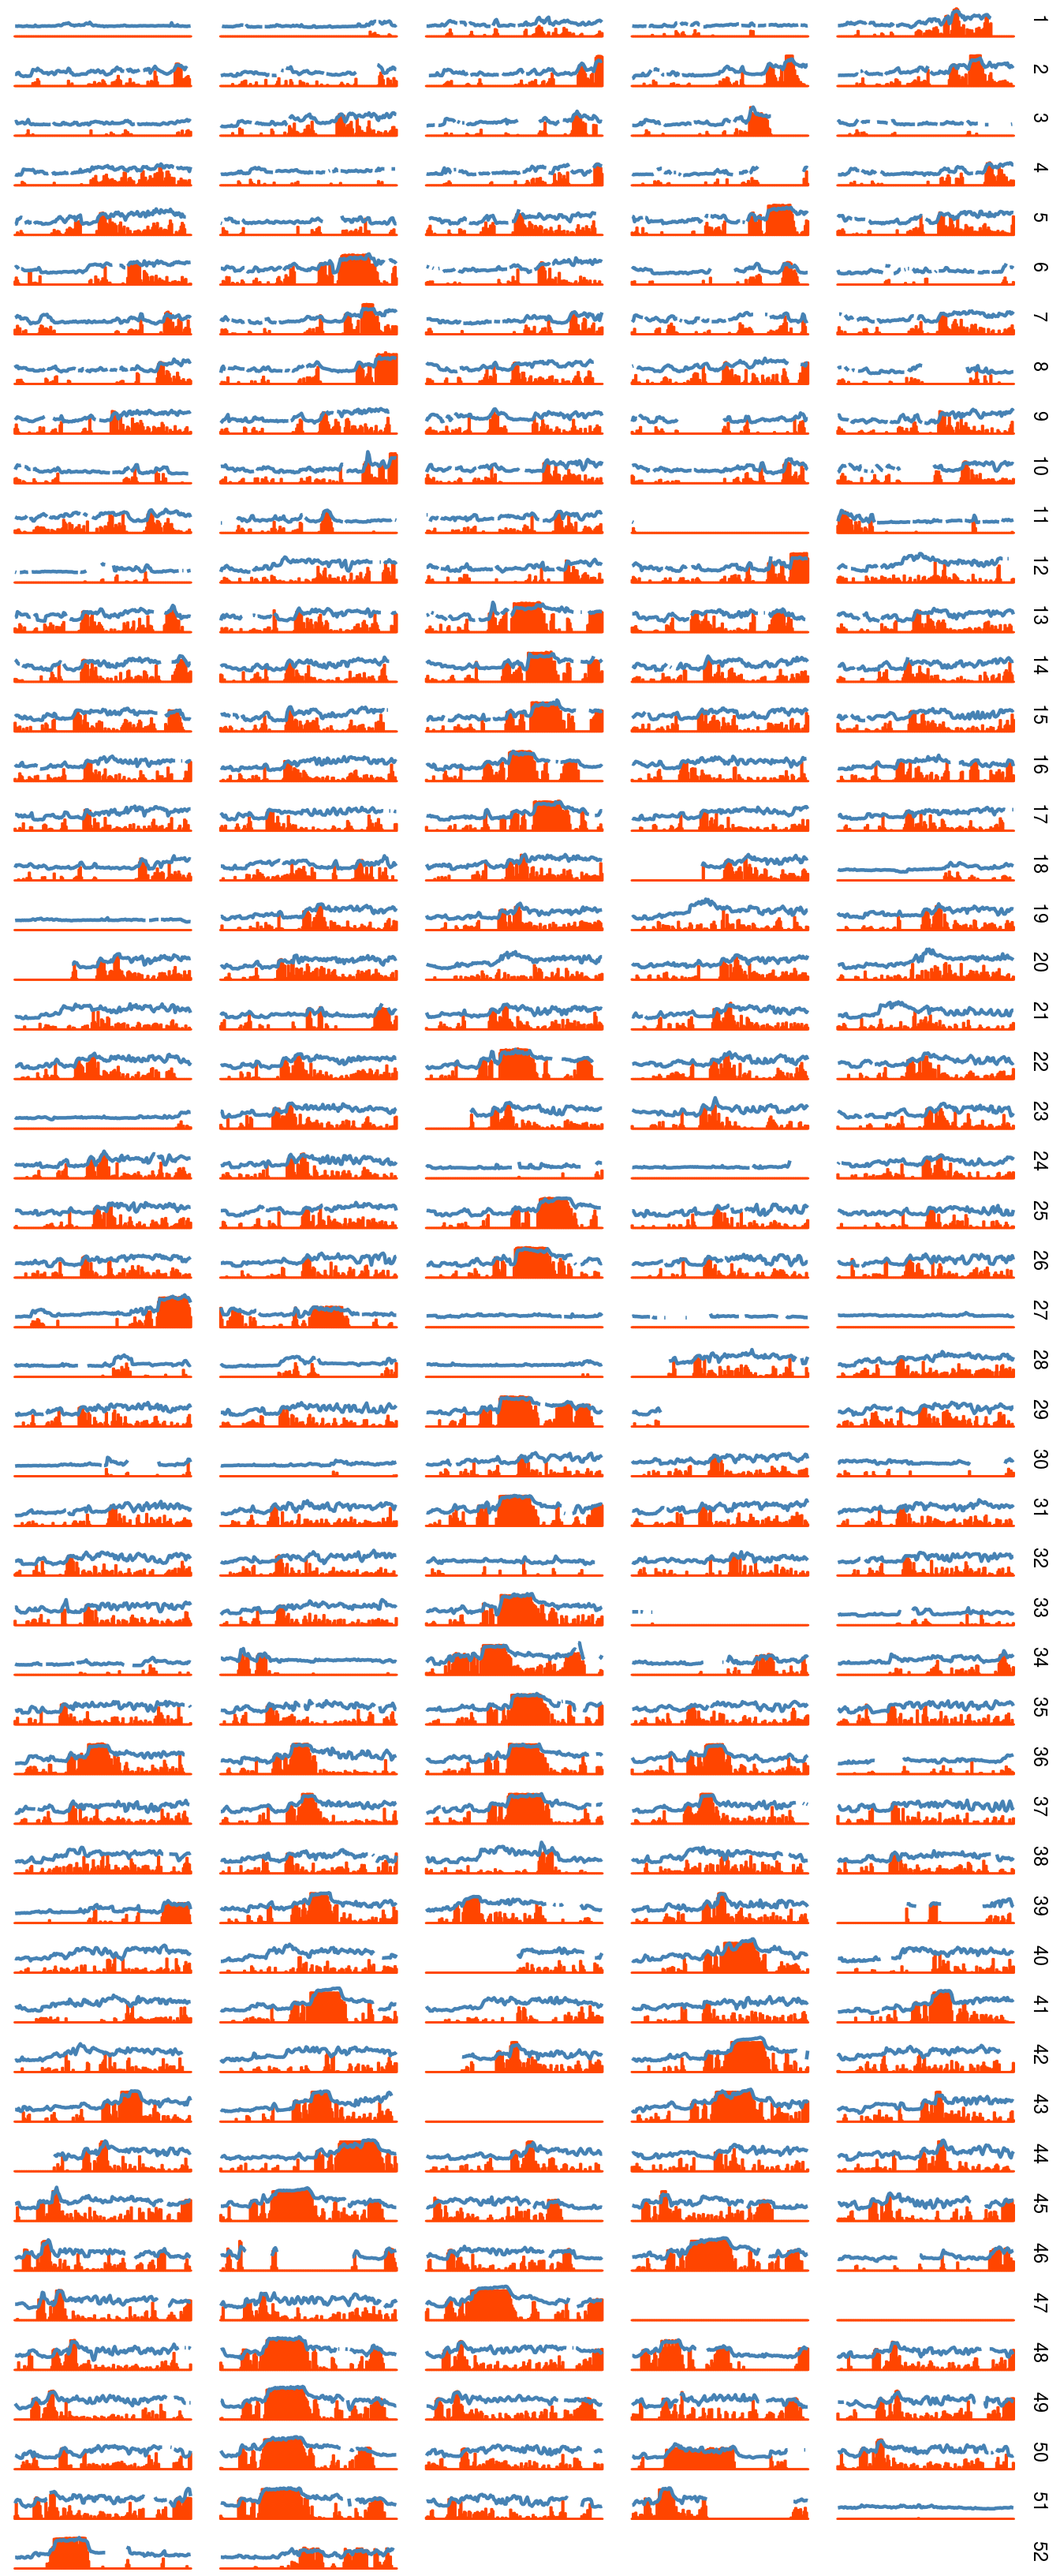
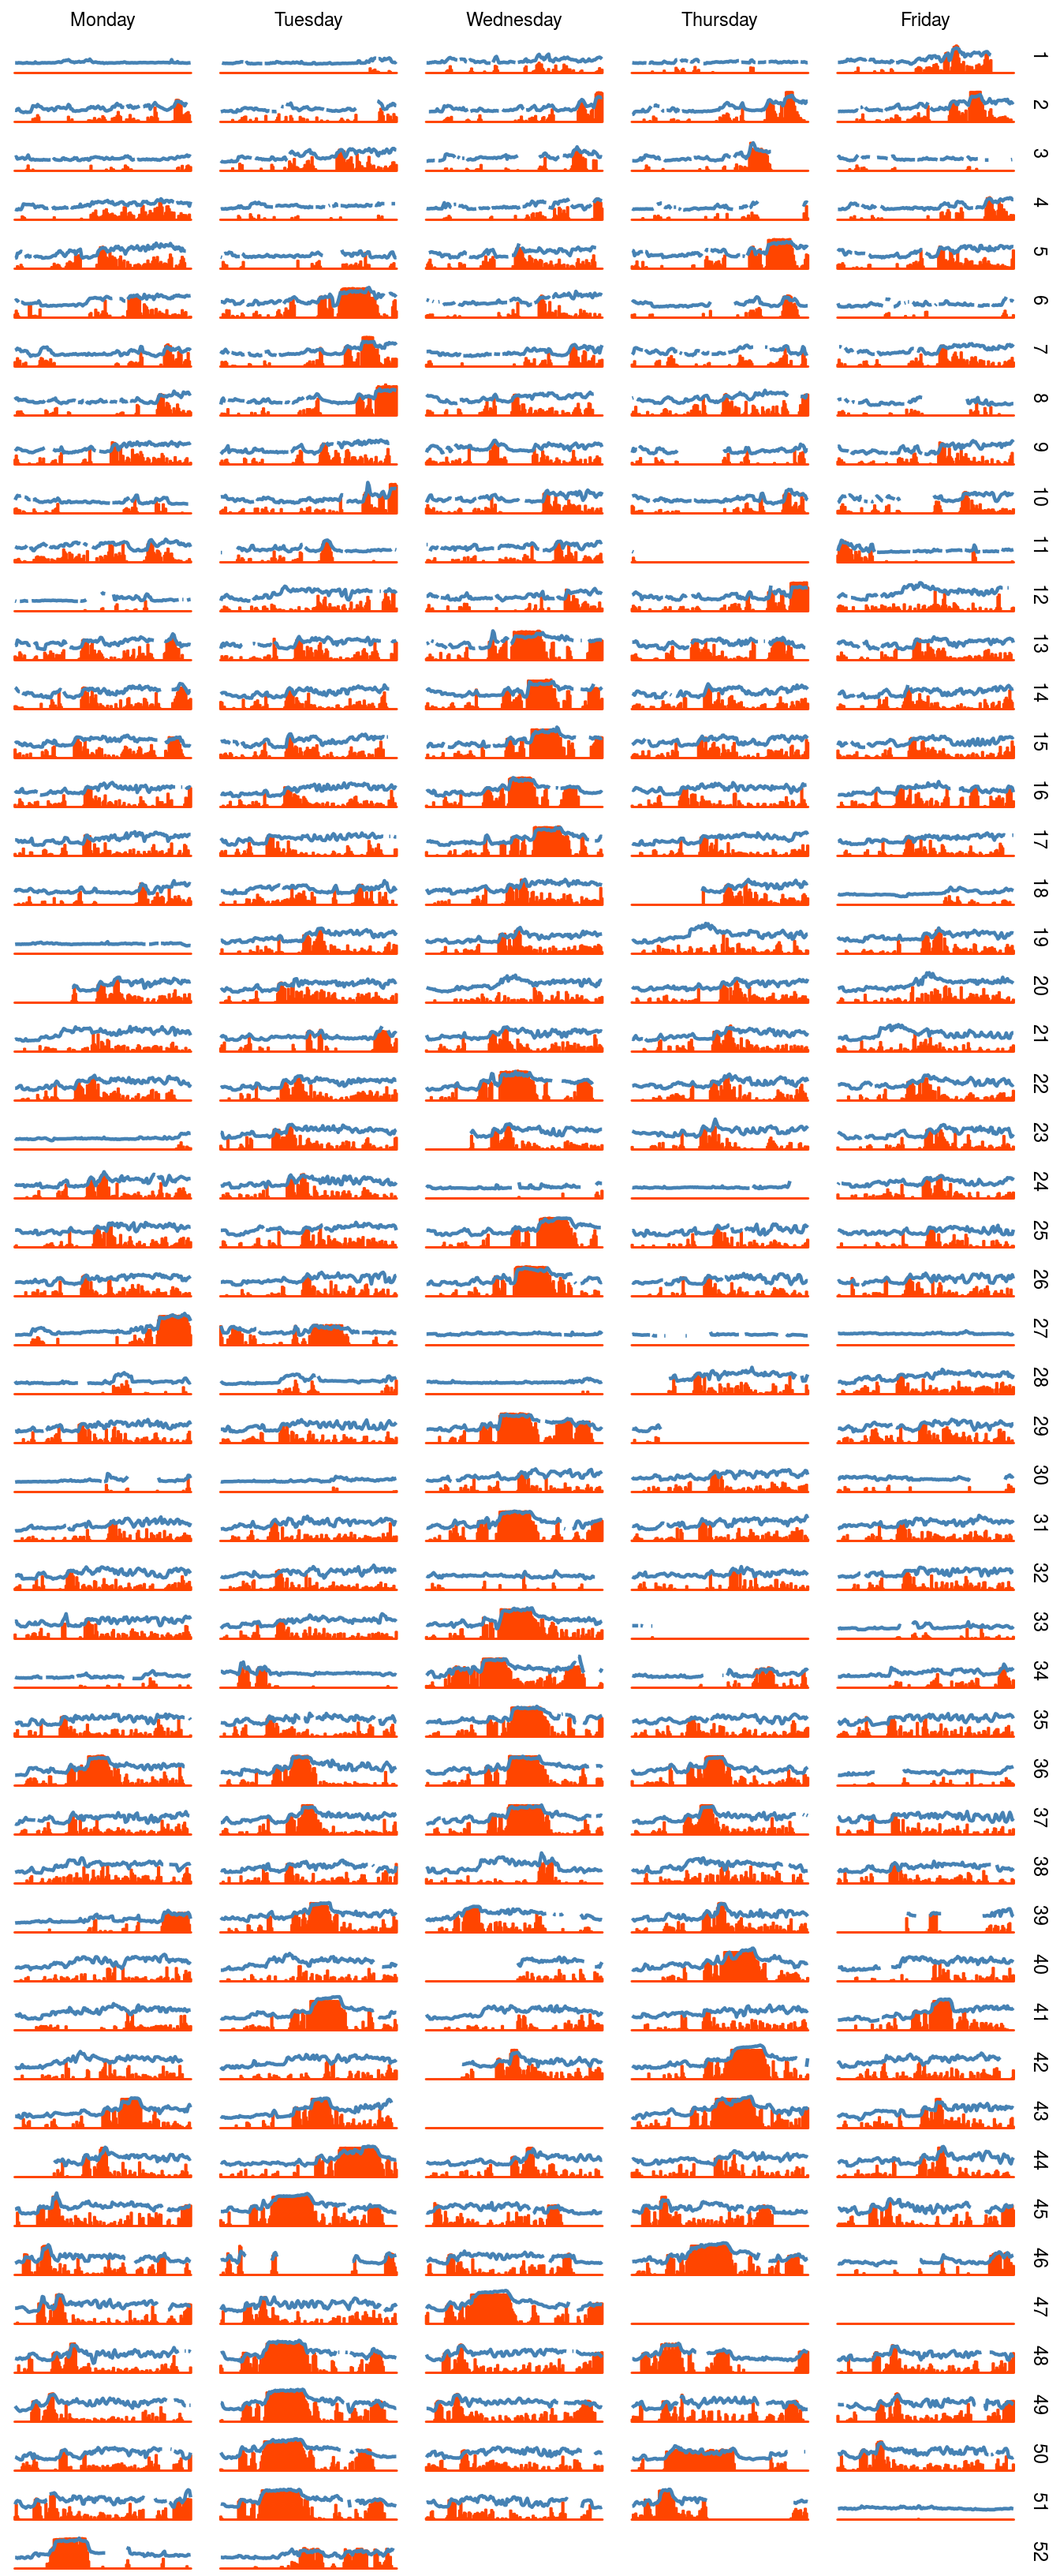
fixed some errant text and daded more meaningful labels to some plots

diff --git a/docs/2017/12/27/a-year-as-told-by-fitbit/index.html b/docs/2017/12/27/a-year-as-told-by-fitbit/index.html
@@ -215,7 +215,8 @@ fitbit_data %&gt;%
     minimum = min(value),
     mean = mean(value),
     median = median(value),
-    maximum = max(value)
+    maximum = max(value),
+    max_time = max(time)
   ) %&gt;% 
   knitr::kable(digits = 3)</code></pre>
 <table>
@@ -227,6 +228,7 @@ fitbit_data %&gt;%
 <th align="right">mean</th>
 <th align="right">median</th>
 <th align="right">maximum</th>
+<th align="right">max_time</th>
 </tr>
 </thead>
 <tbody>
@@ -237,6 +239,7 @@ fitbit_data %&gt;%
 <td align="right">73.300</td>
 <td align="right">69</td>
 <td align="right">192</td>
+<td align="right">86340</td>
 </tr>
 <tr class="even">
 <td align="left">steps</td>
@@ -245,10 +248,11 @@ fitbit_data %&gt;%
 <td align="right">6.287</td>
 <td align="right">0</td>
 <td align="right">222</td>
+<td align="right">86340</td>
 </tr>
 </tbody>
 </table>
-<p>So from this simple summary we can see that our time column does appear to be what it should, starting at 0 and ending at <span class="math inline">\(60*60*(24 - 1) = 86340\)</span>, or seemingly every minute of a given day. The earliest date we have is November first and the latest is December 26th. Mean heart rate is 73 and mean steps per minute is 6. Median heart rate is 69 bpm and median steps are zero, or more than half the time I’m not moving at all.</p>
+<p>So from this simple summary we can see that our time column does appear to be what it should, starting at 0 and ending at <span class="math inline">\(60*60*(24 - 1) = 86340\)</span>, or seemingly every minute of a given day. Mean heart rate is 73 and mean steps per minute is 6. Median heart rate is 69 bpm and median steps are zero, or more than half the time I’m not moving at all.</p>
 <p>Let’s take a quick look at the distributions of the contiguous variables to get a better picture than a simple mean and median can show.</p>
 <pre class="r"><code>annotations &lt;- data_frame(
   x = c(115, 165),
@@ -312,15 +316,14 @@ is_weekday &lt;- function(day_of_week) day_of_week %in% 2:6
 fitbit_data %&gt;% 
   filter(between_six_nine(time) &amp; is_weekday(day_of_week)) %&gt;% 
   spread(type, value) %&gt;% 
+  mutate(day_of_week = factor(day_of_week, 
+    labels = c(&#39;Monday&#39;, &#39;Tuesday&#39;, &#39;Wednesday&#39;, &#39;Thursday&#39;, &#39;Friday&#39;),
+    levels = 2:6)) %&gt;% 
   ggplot(aes(x = time)) +
   geom_bar(aes(y = steps), color = &#39;orangered&#39;, alpha = 0.3, stat = &#39;identity&#39;) + 
   geom_line(aes(y = `heart rate`), color = &#39;steelblue&#39;, size = 0.8) + 
   facet_grid(week_of_year ~ day_of_week) +
-  theme_void() +
-  theme(
-    strip.text.x = element_blank(),
-    strip.background = element_blank()
-  ) </code></pre>
+  theme_void() </code></pre>
 <p><img src="../../../../post/2017-12-27-a-year-in-fitbit_files/figure-html/unnamed-chunk-5-1.png" width="672" /></p>
 <p>You can see when I switched my run days (seen as the large red blocks of steps) from Wednesday to Tuesday and Thursday. In addition, if you look closely you can see the distinct pattern of my steps to the gym from my car.</p>
 <p>Another type of workout my girlfriend and I like to do is hikes on the weekends. We started doing this much more frequently as the year went on. Again let’s subset our data to see if we can observe this.</p>
@@ -329,15 +332,15 @@ fitbit_data %&gt;%
 fitbit_data %&gt;% 
   filter(between_seven_two(time) &amp; !(is_weekday(day_of_week))) %&gt;% 
   spread(type, value) %&gt;% 
+  mutate(
+  day_of_week = factor(day_of_week, 
+    labels = c(&#39;Saturday&#39;, &#39;Sunday&#39;),
+    levels = c(7,1))) %&gt;% 
   ggplot(aes(x = time)) +
   geom_bar(aes(y = steps), color = &#39;orangered&#39;, alpha = 0.3, stat = &#39;identity&#39;) + 
   geom_line(aes(y = `heart rate`), color = &#39;steelblue&#39;, size = 0.8) + 
   facet_grid(week_of_year ~ day_of_week) +
-  theme_void() +
-  theme(
-    strip.text.x = element_blank(),
-    strip.background = element_blank()
-  ) </code></pre>
+  theme_void()</code></pre>
 <p><img src="../../../../post/2017-12-27-a-year-in-fitbit_files/figure-html/unnamed-chunk-6-1.png" width="672" /></p>
 <p>You can see that in the later half of the year we started doing hikes much more frequently. <label for="tufte-mn-" class="margin-toggle">⊕</label><input type="checkbox" id="tufte-mn-" class="margin-toggle"><span class="marginnote"><img src="http://cdn-assets.alltrails.com/static-map/production/at-map/16584167/trail-us-tennessee-fiery-gizzard-grundy-to-foster-falls-at-map-16584167-1504474003-1200x630-3-6.jpg" /></span> In addition, in week 37 we did a hike at the fiery gizzard trail in South Tennessee.</p>
 </div>

diff --git a/content/post/2017-12-27-a-year-in-fitbit.html b/content/post/2017-12-27-a-year-in-fitbit.html
@@ -101,7 +101,8 @@ fitbit_data %&gt;%
     minimum = min(value),
     mean = mean(value),
     median = median(value),
-    maximum = max(value)
+    maximum = max(value),
+    max_time = max(time)
   ) %&gt;% 
   knitr::kable(digits = 3)</code></pre>
 <table>
@@ -113,6 +114,7 @@ fitbit_data %&gt;%
 <th align="right">mean</th>
 <th align="right">median</th>
 <th align="right">maximum</th>
+<th align="right">max_time</th>
 </tr>
 </thead>
 <tbody>
@@ -123,6 +125,7 @@ fitbit_data %&gt;%
 <td align="right">73.300</td>
 <td align="right">69</td>
 <td align="right">192</td>
+<td align="right">86340</td>
 </tr>
 <tr class="even">
 <td align="left">steps</td>
@@ -131,10 +134,11 @@ fitbit_data %&gt;%
 <td align="right">6.287</td>
 <td align="right">0</td>
 <td align="right">222</td>
+<td align="right">86340</td>
 </tr>
 </tbody>
 </table>
-<p>So from this simple summary we can see that our time column does appear to be what it should, starting at 0 and ending at <span class="math inline">\(60*60*(24 - 1) = 86340\)</span>, or seemingly every minute of a given day. The earliest date we have is November first and the latest is December 26th. Mean heart rate is 73 and mean steps per minute is 6. Median heart rate is 69 bpm and median steps are zero, or more than half the time I’m not moving at all.</p>
+<p>So from this simple summary we can see that our time column does appear to be what it should, starting at 0 and ending at <span class="math inline">\(60*60*(24 - 1) = 86340\)</span>, or seemingly every minute of a given day. Mean heart rate is 73 and mean steps per minute is 6. Median heart rate is 69 bpm and median steps are zero, or more than half the time I’m not moving at all.</p>
 <p>Let’s take a quick look at the distributions of the contiguous variables to get a better picture than a simple mean and median can show.</p>
 <pre class="r"><code>annotations &lt;- data_frame(
   x = c(115, 165),
@@ -198,15 +202,14 @@ is_weekday &lt;- function(day_of_week) day_of_week %in% 2:6
 fitbit_data %&gt;% 
   filter(between_six_nine(time) &amp; is_weekday(day_of_week)) %&gt;% 
   spread(type, value) %&gt;% 
+  mutate(day_of_week = factor(day_of_week, 
+    labels = c(&#39;Monday&#39;, &#39;Tuesday&#39;, &#39;Wednesday&#39;, &#39;Thursday&#39;, &#39;Friday&#39;),
+    levels = 2:6)) %&gt;% 
   ggplot(aes(x = time)) +
   geom_bar(aes(y = steps), color = &#39;orangered&#39;, alpha = 0.3, stat = &#39;identity&#39;) + 
   geom_line(aes(y = `heart rate`), color = &#39;steelblue&#39;, size = 0.8) + 
   facet_grid(week_of_year ~ day_of_week) +
-  theme_void() +
-  theme(
-    strip.text.x = element_blank(),
-    strip.background = element_blank()
-  ) </code></pre>
+  theme_void() </code></pre>
 <p><img src="/post/2017-12-27-a-year-in-fitbit_files/figure-html/unnamed-chunk-5-1.png" width="672" /></p>
 <p>You can see when I switched my run days (seen as the large red blocks of steps) from Wednesday to Tuesday and Thursday. In addition, if you look closely you can see the distinct pattern of my steps to the gym from my car.</p>
 <p>Another type of workout my girlfriend and I like to do is hikes on the weekends. We started doing this much more frequently as the year went on. Again let’s subset our data to see if we can observe this.</p>
@@ -215,15 +218,15 @@ fitbit_data %&gt;%
 fitbit_data %&gt;% 
   filter(between_seven_two(time) &amp; !(is_weekday(day_of_week))) %&gt;% 
   spread(type, value) %&gt;% 
+  mutate(
+  day_of_week = factor(day_of_week, 
+    labels = c(&#39;Saturday&#39;, &#39;Sunday&#39;),
+    levels = c(7,1))) %&gt;% 
   ggplot(aes(x = time)) +
   geom_bar(aes(y = steps), color = &#39;orangered&#39;, alpha = 0.3, stat = &#39;identity&#39;) + 
   geom_line(aes(y = `heart rate`), color = &#39;steelblue&#39;, size = 0.8) + 
   facet_grid(week_of_year ~ day_of_week) +
-  theme_void() +
-  theme(
-    strip.text.x = element_blank(),
-    strip.background = element_blank()
-  ) </code></pre>
+  theme_void()</code></pre>
 <p><img src="/post/2017-12-27-a-year-in-fitbit_files/figure-html/unnamed-chunk-6-1.png" width="672" /></p>
 <p>You can see that in the later half of the year we started doing hikes much more frequently. <label for="tufte-mn-" class="margin-toggle">⊕</label><input type="checkbox" id="tufte-mn-" class="margin-toggle"><span class="marginnote"><img src="http://cdn-assets.alltrails.com/static-map/production/at-map/16584167/trail-us-tennessee-fiery-gizzard-grundy-to-foster-falls-at-map-16584167-1504474003-1200x630-3-6.jpg" /></span> In addition, in week 37 we did a hike at the fiery gizzard trail in South Tennessee.</p>
 </div>
